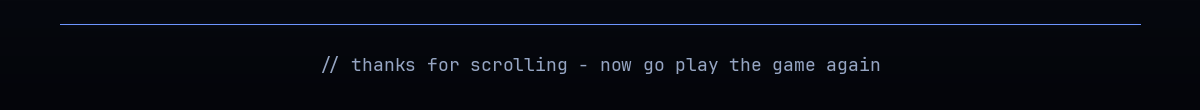
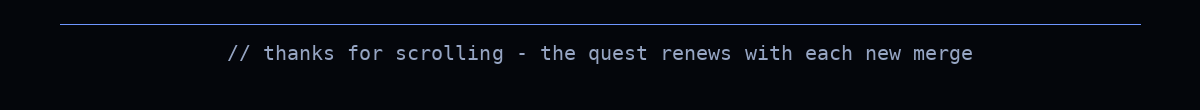
Quest: ~/quest heading, merged path blocks with counts, grounded stack, x/linkedin header links, new footer

Changed region(s): [[0.185, 0.4091, 0.8325, 0.6545]]

diff --git a/.github/quest/generate.py b/.github/quest/generate.py
@@ -188,49 +188,36 @@ def repo_group(repo, prs):
     return "\n".join(lines)
 
 INTRO = {
-    "mind":   ("skillcheck, paperly &amp; research",
-               "ai that shows its work. every merged pr on that road:"),
-    "blade":  ("security work, merged upstream",
-               "vulnerabilities cut out of live codebases, wherever they hid:"),
-    "chain":  ("web3 &amp; protocol engineering",
-               "chains, contracts and the tooling around them. every merged pr:"),
-    "scroll": ("formstr, aossie &amp; community",
-               "products and tools people use. every merged pr:"),
+    "mind":   "skillcheck, paperly &amp; research",
+    "blade":  "security work, merged upstream",
+    "chain":  "web3 &amp; protocol engineering",
+    "scroll": "formstr, aossie &amp; community",
 }
-SHRINE_TITLE = {
-    "mind": "skillcheck &amp; own products",
-    "blade": "smart-contract security",
-    "chain": "minichain &amp; web3",
-    "scroll": "the formstr suite",
+KANJI = {"mind": "\u5fc3", "blade": "\u5203", "chain": "\u9396", "scroll": "\u5dfb"}
+TAGLINE = {
+    "mind": "ai that shows its work",
+    "blade": "cutting vulnerabilities out",
+    "chain": "a blockchain, built from scratch",
+    "scroll": "the formstr suite, shipped",
 }
+ORDER = ["mind", "blade", "chain", "scroll"]
 
-def shrine(path, prs):
+def path_block(path, prs):
     groups = {}
     for p in prs:
         groups.setdefault(p["repo"], []).append(p)
     ordered = sorted(groups.items(), key=lambda kv: (-len(kv[1]), kv[0]))
-    head, sub = INTRO[path]
     body = "\n<br>\n".join(repo_group(r, ps) for r, ps in ordered)
+    n = len(prs)
     return f"""<details name="xp">
-<summary><b>⛩ shrine of the {path}</b> - {SHRINE_TITLE[path]}</summary>
-<a id="xp-shrine-{path}"></a>
-<p align="center"><i>{sub}</i></p>
-<p align="center"><b>{head}</b> · <b>{len(prs)} merged prs</b></p>
+<summary><b>{KANJI[path]} the way of the {path}</b> - {TAGLINE[path]} · <b>{n} merged prs</b></summary>
+<a id="xp-{path}"></a>
+<p align="center"><img src="assets/xp_{path}.gif" width="560"></p>
+<p align="center"><b>{INTRO[path]}</b></p>
 <p align="center">
 {body}
 <br>
-<sub><a href="#user-content-xp-map">↩ walk another path</a></sub>
-</p>
-</details>"""
-
-def scene(path, kanji, name, tagline):
-    return f"""<details name="xp">
-<summary><b>{kanji} the way of the {path}</b> - {tagline}</summary>
-<a id="xp-{path}"></a>
-<p align="center"><img src="assets/xp_{path}.gif" width="560"></p>
-<p align="center">
-<a href="#user-content-xp-shrine-{path}"><b>press on to the shrine →</b></a><br>
-<sub><a href="https://cdn.jsdelivr.net/gh/SIDDHANTCOOKIE/SIDDHANTCOOKIE@main/assets/ronin-theme.mp3">♪ open the soundtrack</a> &nbsp;·&nbsp; <a href="#user-content-xp-map">↩ return to the crossroads</a></sub>
+<sub><a href="#user-content-xp-map">↩ return to the crossroads</a></sub>
 </p>
 </details>"""
 
@@ -240,7 +227,10 @@ def render_section(prs):
         by_path[classify(p["repo"], p["number"], p["title"])].append(p)
     total = len(prs)
     counts = {k: len(v) for k, v in by_path.items()}
-    parts = [f"""## ~/play
+    nav = " &nbsp;·&nbsp;\n".join(
+        f'<a href="#user-content-xp-{p}"><b>{KANJI[p]} the way of the {p}</b> · {counts[p]}</a>'
+        for p in ORDER) + "<br>"
+    parts = [f"""## ~/quest
 
 <details name="xp" open>
 <summary><b>༄ the crossroads</b> - a contribution quest</summary>
@@ -249,21 +239,11 @@ def render_section(prs):
 <p align="center">
 <sub>four paths, four kinds of work - every merged pull request lives here.<br>
 <b>{total} merged prs</b> and counting; the quest renews itself with each new merge.</sub><br><br>
-<a href="#user-content-xp-mind"><b>心 &nbsp;the way of the mind</b></a> &nbsp;·&nbsp;
-<a href="#user-content-xp-blade"><b>刃 &nbsp;the way of the blade</b></a> &nbsp;·&nbsp;
-<a href="#user-content-xp-chain"><b>鎖 &nbsp;the way of the chain</b></a> &nbsp;·&nbsp;
-<a href="#user-content-xp-scroll"><b>巻 &nbsp;the way of the scroll</b></a><br>
+{nav}
 <sub><a href="https://cdn.jsdelivr.net/gh/SIDDHANTCOOKIE/SIDDHANTCOOKIE@main/assets/ronin-theme.mp3">♪ open the soundtrack</a> - opens in your browser player (GitHub READMEs cannot embed audio)</sub>
 </p>
 </details>""",
-        scene("mind", "心", "mind", "ai that shows its work"),
-        scene("blade", "刃", "blade", "cutting vulnerabilities out"),
-        scene("chain", "鎖", "chain", "a blockchain, built from scratch"),
-        scene("scroll", "巻", "scroll", "the formstr suite, shipped"),
-        shrine("mind", by_path["mind"]),
-        shrine("blade", by_path["blade"]),
-        shrine("chain", by_path["chain"]),
-        shrine("scroll", by_path["scroll"]),
+        *(path_block(p, by_path[p]) for p in ORDER),
     ]
     return "\n\n".join(parts), counts
 
@@ -286,3 +266,4 @@ def main():
 
 if __name__ == "__main__":
     main()
+

diff --git a/README.md b/README.md
@@ -1,9 +1,9 @@
 <p align="center"><a href="#top"><img src="assets/header.gif" width="100%"></a></p>
 
 <p align="center">
-  <a href="https://linkedin.com/in/siddhant">linkedin</a> &nbsp;·&nbsp;
+  <a href="https://linkedin.com/in/siddhantcookie">linkedin</a> &nbsp;·&nbsp;
+  <a href="https://x.com/siddhantcookie">x</a> &nbsp;·&nbsp;
   <a href="https://siddhant.tech">siddhant.tech</a> &nbsp;·&nbsp;
-  <a href="mailto:sk6917@srmist.edu.in">email</a> &nbsp;·&nbsp;
   <a href="https://drive.google.com/file/d/1w8hEMrvuLSYpJ_kBHOfAO2JHLGv55zAp/view?usp=drive_link">cv</a>
 </p>
 
@@ -20,7 +20,7 @@ kinda obsessive about everything i build
 
 <!-- contribution-quest:begin -->
 
-## ~/play
+## ~/quest
 
 <details name="xp" open>
 <summary><b>༄ the crossroads</b> - a contribution quest</summary>
@@ -29,59 +29,19 @@ kinda obsessive about everything i build
 <p align="center">
 <sub>four paths, four kinds of work - every merged pull request lives here.<br>
 <b>100 merged prs</b> and counting; the quest renews itself with each new merge.</sub><br><br>
-<a href="#user-content-xp-mind"><b>心 &nbsp;the way of the mind</b></a> &nbsp;·&nbsp;
-<a href="#user-content-xp-blade"><b>刃 &nbsp;the way of the blade</b></a> &nbsp;·&nbsp;
-<a href="#user-content-xp-chain"><b>鎖 &nbsp;the way of the chain</b></a> &nbsp;·&nbsp;
-<a href="#user-content-xp-scroll"><b>巻 &nbsp;the way of the scroll</b></a><br>
+<a href="#user-content-xp-mind"><b>心 the way of the mind</b> · 4</a> &nbsp;·&nbsp;
+<a href="#user-content-xp-blade"><b>刃 the way of the blade</b> · 5</a> &nbsp;·&nbsp;
+<a href="#user-content-xp-chain"><b>鎖 the way of the chain</b> · 69</a> &nbsp;·&nbsp;
+<a href="#user-content-xp-scroll"><b>巻 the way of the scroll</b> · 22</a><br>
 <sub><a href="https://cdn.jsdelivr.net/gh/SIDDHANTCOOKIE/SIDDHANTCOOKIE@main/assets/ronin-theme.mp3">♪ open the soundtrack</a> - opens in your browser player (GitHub READMEs cannot embed audio)</sub>
 </p>
 </details>
 
 <details name="xp">
-<summary><b>心 the way of the mind</b> - ai that shows its work</summary>
+<summary><b>心 the way of the mind</b> - ai that shows its work · <b>4 merged prs</b></summary>
 <a id="xp-mind"></a>
 <p align="center"><img src="assets/xp_mind.gif" width="560"></p>
-<p align="center">
-<a href="#user-content-xp-shrine-mind"><b>press on to the shrine →</b></a><br>
-<sub><a href="https://cdn.jsdelivr.net/gh/SIDDHANTCOOKIE/SIDDHANTCOOKIE@main/assets/ronin-theme.mp3">♪ open the soundtrack</a> &nbsp;·&nbsp; <a href="#user-content-xp-map">↩ return to the crossroads</a></sub>
-</p>
-</details>
-
-<details name="xp">
-<summary><b>刃 the way of the blade</b> - cutting vulnerabilities out</summary>
-<a id="xp-blade"></a>
-<p align="center"><img src="assets/xp_blade.gif" width="560"></p>
-<p align="center">
-<a href="#user-content-xp-shrine-blade"><b>press on to the shrine →</b></a><br>
-<sub><a href="https://cdn.jsdelivr.net/gh/SIDDHANTCOOKIE/SIDDHANTCOOKIE@main/assets/ronin-theme.mp3">♪ open the soundtrack</a> &nbsp;·&nbsp; <a href="#user-content-xp-map">↩ return to the crossroads</a></sub>
-</p>
-</details>
-
-<details name="xp">
-<summary><b>鎖 the way of the chain</b> - a blockchain, built from scratch</summary>
-<a id="xp-chain"></a>
-<p align="center"><img src="assets/xp_chain.gif" width="560"></p>
-<p align="center">
-<a href="#user-content-xp-shrine-chain"><b>press on to the shrine →</b></a><br>
-<sub><a href="https://cdn.jsdelivr.net/gh/SIDDHANTCOOKIE/SIDDHANTCOOKIE@main/assets/ronin-theme.mp3">♪ open the soundtrack</a> &nbsp;·&nbsp; <a href="#user-content-xp-map">↩ return to the crossroads</a></sub>
-</p>
-</details>
-
-<details name="xp">
-<summary><b>巻 the way of the scroll</b> - the formstr suite, shipped</summary>
-<a id="xp-scroll"></a>
-<p align="center"><img src="assets/xp_scroll.gif" width="560"></p>
-<p align="center">
-<a href="#user-content-xp-shrine-scroll"><b>press on to the shrine →</b></a><br>
-<sub><a href="https://cdn.jsdelivr.net/gh/SIDDHANTCOOKIE/SIDDHANTCOOKIE@main/assets/ronin-theme.mp3">♪ open the soundtrack</a> &nbsp;·&nbsp; <a href="#user-content-xp-map">↩ return to the crossroads</a></sub>
-</p>
-</details>
-
-<details name="xp">
-<summary><b>⛩ shrine of the mind</b> - skillcheck &amp; own products</summary>
-<a id="xp-shrine-mind"></a>
-<p align="center"><i>ai that shows its work. every merged pr on that road:</i></p>
-<p align="center"><b>skillcheck, paperly &amp; research</b> · <b>4 merged prs</b></p>
+<p align="center"><b>skillcheck, paperly &amp; research</b></p>
 <p align="center">
 <sub><b>SIDDHANTCOOKIE/SkillCheck</b> · 2 merged</sub><br>
 <sub><a href="https://github.com/SIDDHANTCOOKIE/SkillCheck/pull/2"><b>#2</b></a> Wired into graph.py so hook/install-triggered files are promoted to loadstage "unattended" before capability chains build · aug 14, 2026</sub><br>
@@ -93,15 +53,15 @@ kinda obsessive about everything i build
 <sub><b>SIDDHANTCOOKIE/DocuFlow</b> · 1 merged</sub><br>
 <sub><a href="https://github.com/SIDDHANTCOOKIE/DocuFlow/pull/1"><b>#1</b></a> Updated index.html to add a Vite module entry script (&lt;script type="module" src="/index.tsx"&gt;&lt;/script&gt;) and removed the browser importmap that was… · feb 13, 2026</sub><br>
 <br>
-<sub><a href="#user-content-xp-map">↩ walk another path</a></sub>
+<sub><a href="#user-content-xp-map">↩ return to the crossroads</a></sub>
 </p>
 </details>
 
 <details name="xp">
-<summary><b>⛩ shrine of the blade</b> - smart-contract security</summary>
-<a id="xp-shrine-blade"></a>
-<p align="center"><i>vulnerabilities cut out of live codebases, wherever they hid:</i></p>
-<p align="center"><b>security work, merged upstream</b> · <b>5 merged prs</b></p>
+<summary><b>刃 the way of the blade</b> - cutting vulnerabilities out · <b>5 merged prs</b></summary>
+<a id="xp-blade"></a>
+<p align="center"><img src="assets/xp_blade.gif" width="560"></p>
+<p align="center"><b>security work, merged upstream</b></p>
 <p align="center">
 <sub><b>StabilityNexus/HammerAuctionHouse-Solidity</b> · 2 merged</sub><br>
 <sub><a href="https://github.com/StabilityNexus/HammerAuctionHouse-Solidity/pull/68"><b>#68</b></a> Addressed Issues: Fixes #66 Fixes English auction anti-sniping behavior by making deadline extension conditional instead of unconditional · mar 30, 2026</sub><br>
@@ -114,15 +74,15 @@ kinda obsessive about everything i build
 <sub><b>StabilityNexus/MiniChain</b> · 1 merged</sub><br>
 <sub><a href="https://github.com/StabilityNexus/MiniChain/pull/120"><b>#120</b></a> These fixes are essential for ensuring network stability, fund safety, and resistance against targeted DoS attacks · jul 15, 2026</sub><br>
 <br>
-<sub><a href="#user-content-xp-map">↩ walk another path</a></sub>
+<sub><a href="#user-content-xp-map">↩ return to the crossroads</a></sub>
 </p>
 </details>
 
 <details name="xp">
-<summary><b>⛩ shrine of the chain</b> - minichain &amp; web3</summary>
-<a id="xp-shrine-chain"></a>
-<p align="center"><i>chains, contracts and the tooling around them. every merged pr:</i></p>
-<p align="center"><b>web3 &amp; protocol engineering</b> · <b>69 merged prs</b></p>
+<summary><b>鎖 the way of the chain</b> - a blockchain, built from scratch · <b>69 merged prs</b></summary>
+<a id="xp-chain"></a>
+<p align="center"><img src="assets/xp_chain.gif" width="560"></p>
+<p align="center"><b>web3 &amp; protocol engineering</b></p>
 <p align="center">
 <sub><b>StabilityNexus/MiniChain</b> · 43 merged</sub><br>
 <sub><a href="https://github.com/StabilityNexus/MiniChain/pull/136"><b>#136</b></a> Added a security policy with supported versions, reporting guidance, response expectations, and scope · aug 13, 2026</sub><br>
@@ -219,15 +179,15 @@ kinda obsessive about everything i build
 <sub><b>StabilityNexus/hodlCoin-Website</b> · 1 merged</sub><br>
 <sub><a href="https://github.com/StabilityNexus/hodlCoin-Website/pull/32"><b>#32</b></a> Addressed Issues: This PR introduces an automated workflow that labels pull requests with merge conflicts using eps1lon/actions-label-merge-conflict · mar 25, 2026</sub><br>
 <br>
-<sub><a href="#user-content-xp-map">↩ walk another path</a></sub>
+<sub><a href="#user-content-xp-map">↩ return to the crossroads</a></sub>
 </p>
 </details>
 
 <details name="xp">
-<summary><b>⛩ shrine of the scroll</b> - the formstr suite</summary>
-<a id="xp-shrine-scroll"></a>
-<p align="center"><i>products and tools people use. every merged pr:</i></p>
-<p align="center"><b>formstr, aossie &amp; community</b> · <b>22 merged prs</b></p>
+<summary><b>巻 the way of the scroll</b> - the formstr suite, shipped · <b>22 merged prs</b></summary>
+<a id="xp-scroll"></a>
+<p align="center"><img src="assets/xp_scroll.gif" width="560"></p>
+<p align="center"><b>formstr, aossie &amp; community</b></p>
 <p align="center">
 <sub><b>formstr-hq/formstr-drive</b> · 5 merged</sub><br>
 <sub><a href="https://github.com/formstr-hq/formstr-drive/pull/57"><b>#57</b></a> Download fixes Replaced the old useDownloader hook with a proper streaming pipeline (swStreamDownload.ts + public/sw.js) so large files write… · jul 21, 2026</sub><br>
@@ -269,7 +229,7 @@ kinda obsessive about everything i build
 <sub><b>formstr-hq/nostr-forms</b> · 1 merged</sub><br>
 <sub><a href="https://github.com/formstr-hq/nostr-forms/pull/481"><b>#481</b></a> This replaces the old external Geyser links with a smoother in-app NIP-57/LNURL flow · may 7, 2026</sub><br>
 <br>
-<sub><a href="#user-content-xp-map">↩ walk another path</a></sub>
+<sub><a href="#user-content-xp-map">↩ return to the crossroads</a></sub>
 </p>
 </details>
 
@@ -309,11 +269,12 @@ products i shipped and run live:
 ## ~/stack
 
 ```text
-langs    python · c++ · c · solidity · html/css
-ai/ml    pytorch · scikit-learn · langsmith · numpy · pandas
-web3     web3.py · evm · smart contracts · libp2p
-backend  fastapi · flask · celery · redis · mongodb
-tools    docker · git · firebase · gcp · ubuntu
+langs   python · typescript · javascript · solidity · go · c++ · c
+web     html/css · react · next.js · node.js · express · tailwind · vite
+ai/ml   pytorch · scikit-learn · langsmith · numpy · pandas
+web3    evm · smart contracts · web3.py · ethers.js · wagmi · hardhat · openzeppelin · libp2p
+backend fastapi · flask · celery · redis · mongodb
+tools   docker · git · firebase · gcp · ubuntu
 ```
 
 ## ~/stats
@@ -325,4 +286,5 @@ tools    docker · git · firebase · gcp · ubuntu
 
 
 <p align="center"><a href="#top"><img src="assets/footer.png" width="100%"></a></p>
+
 
